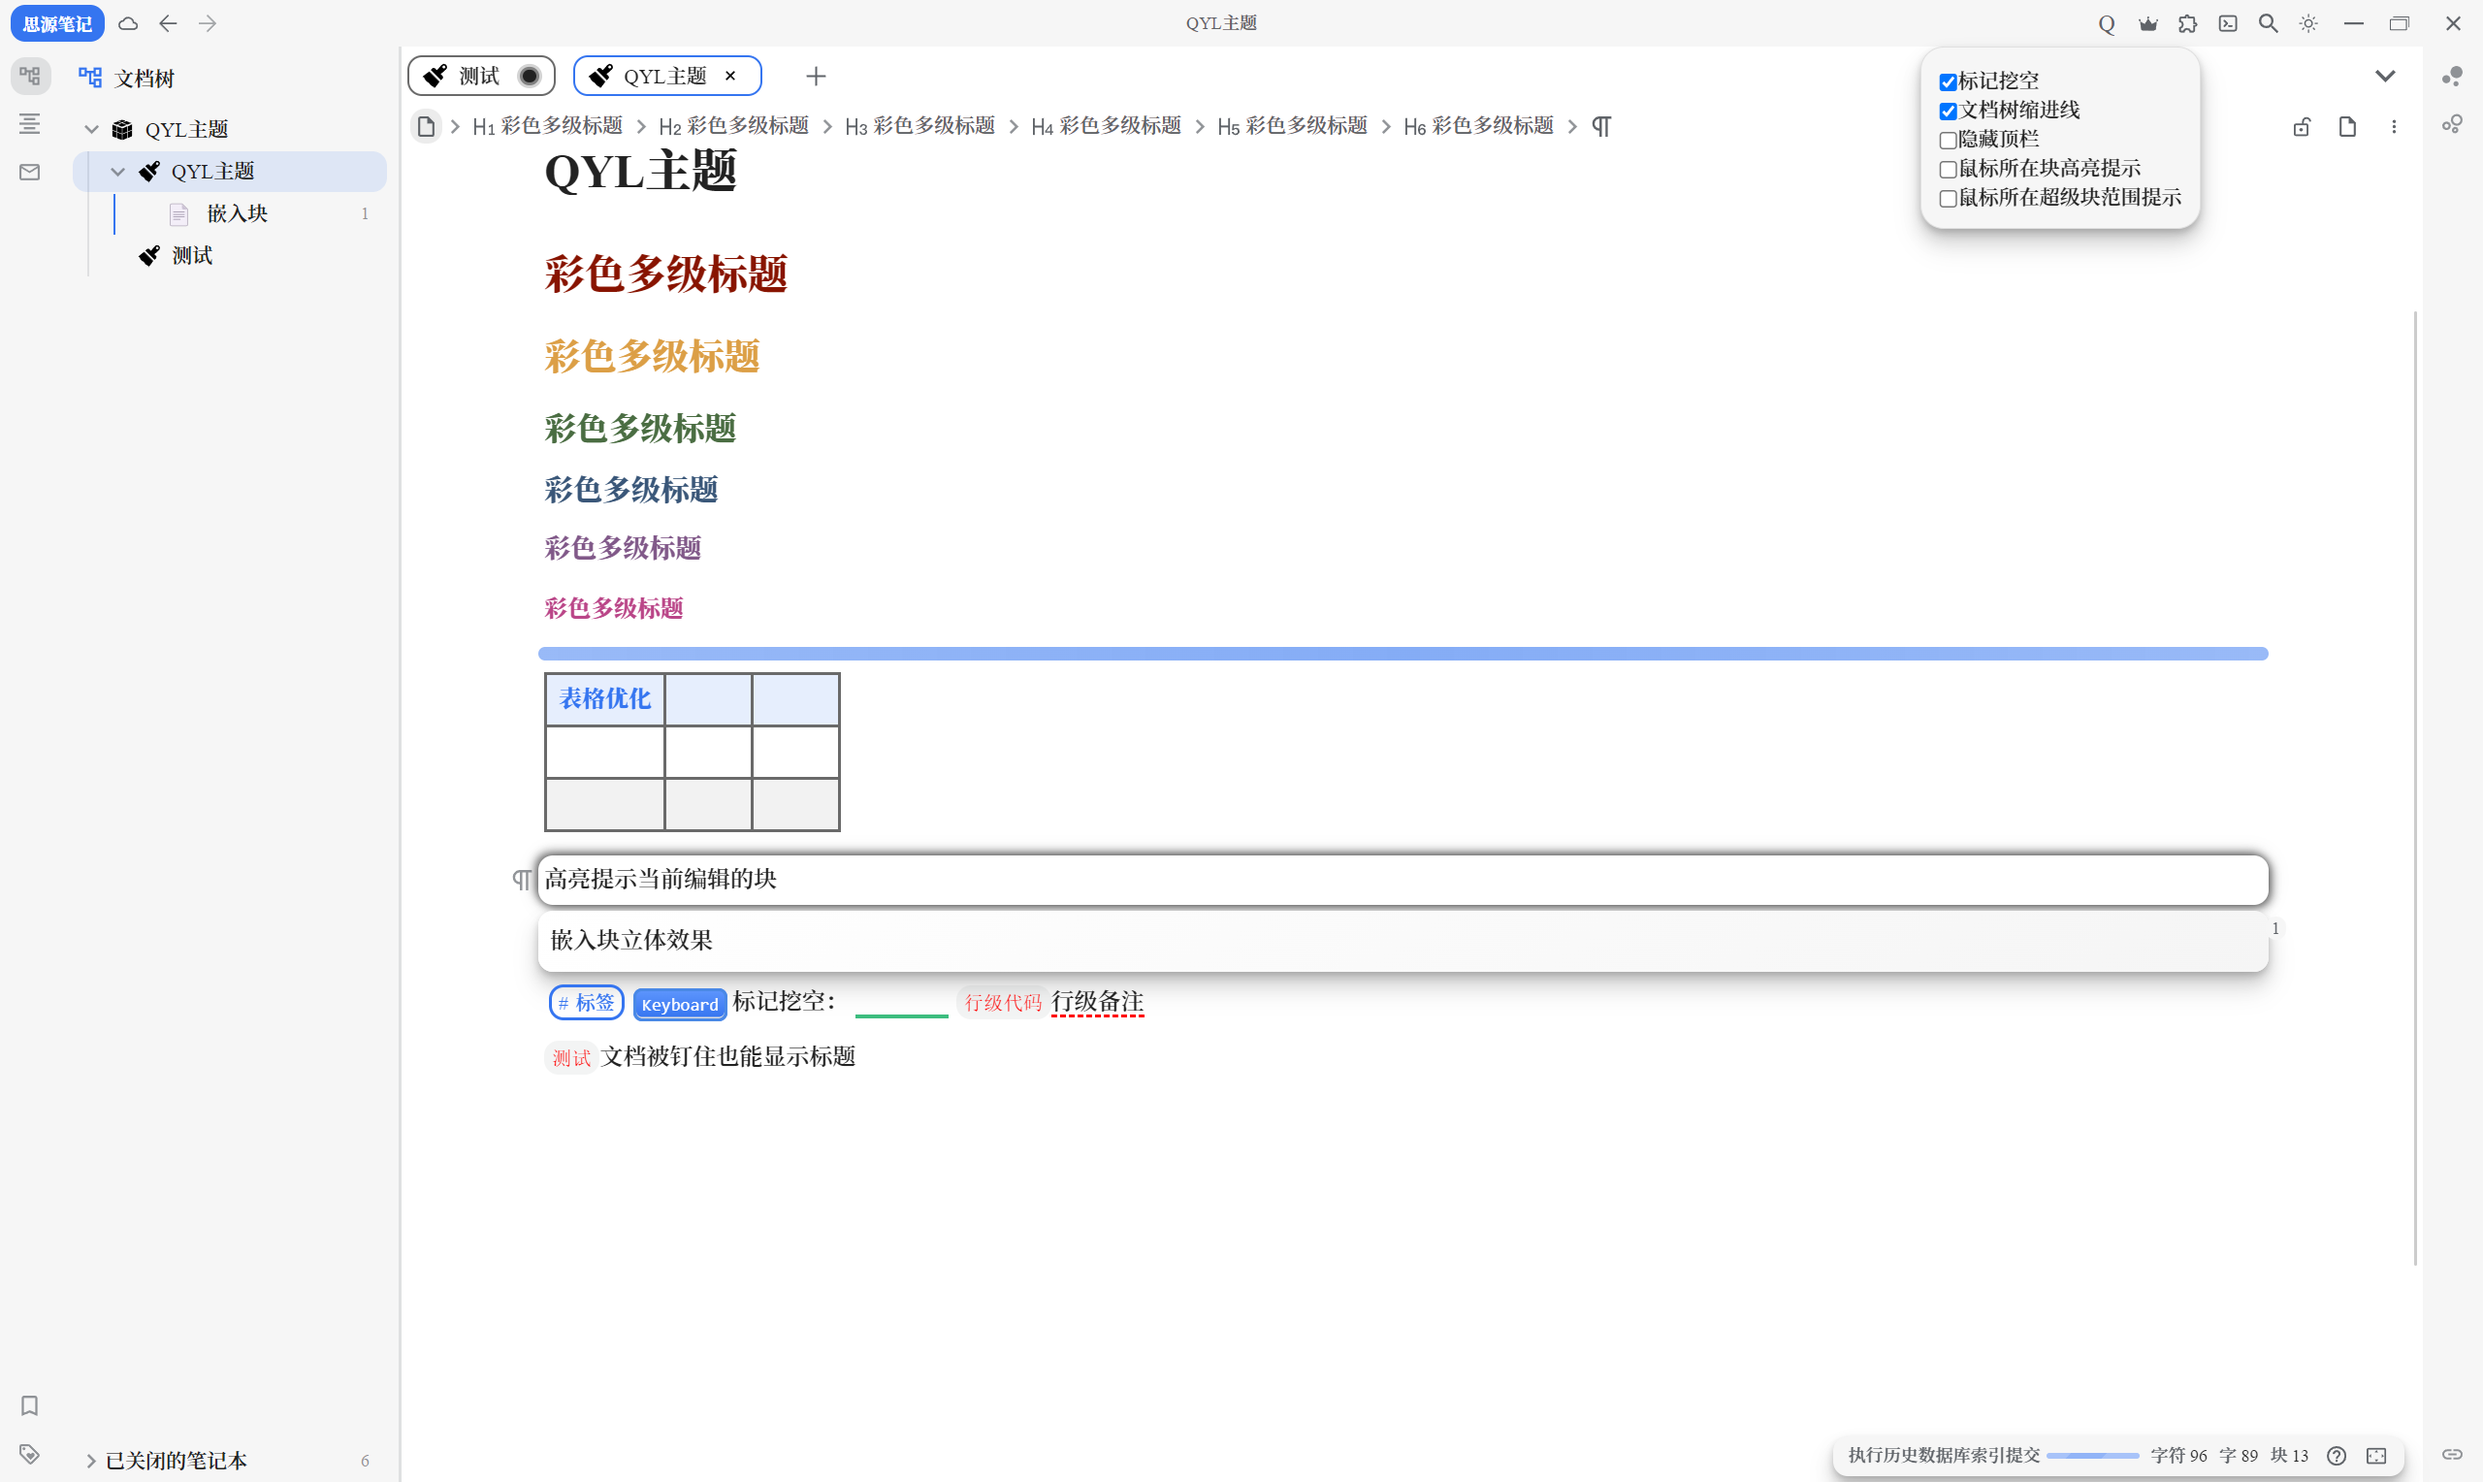
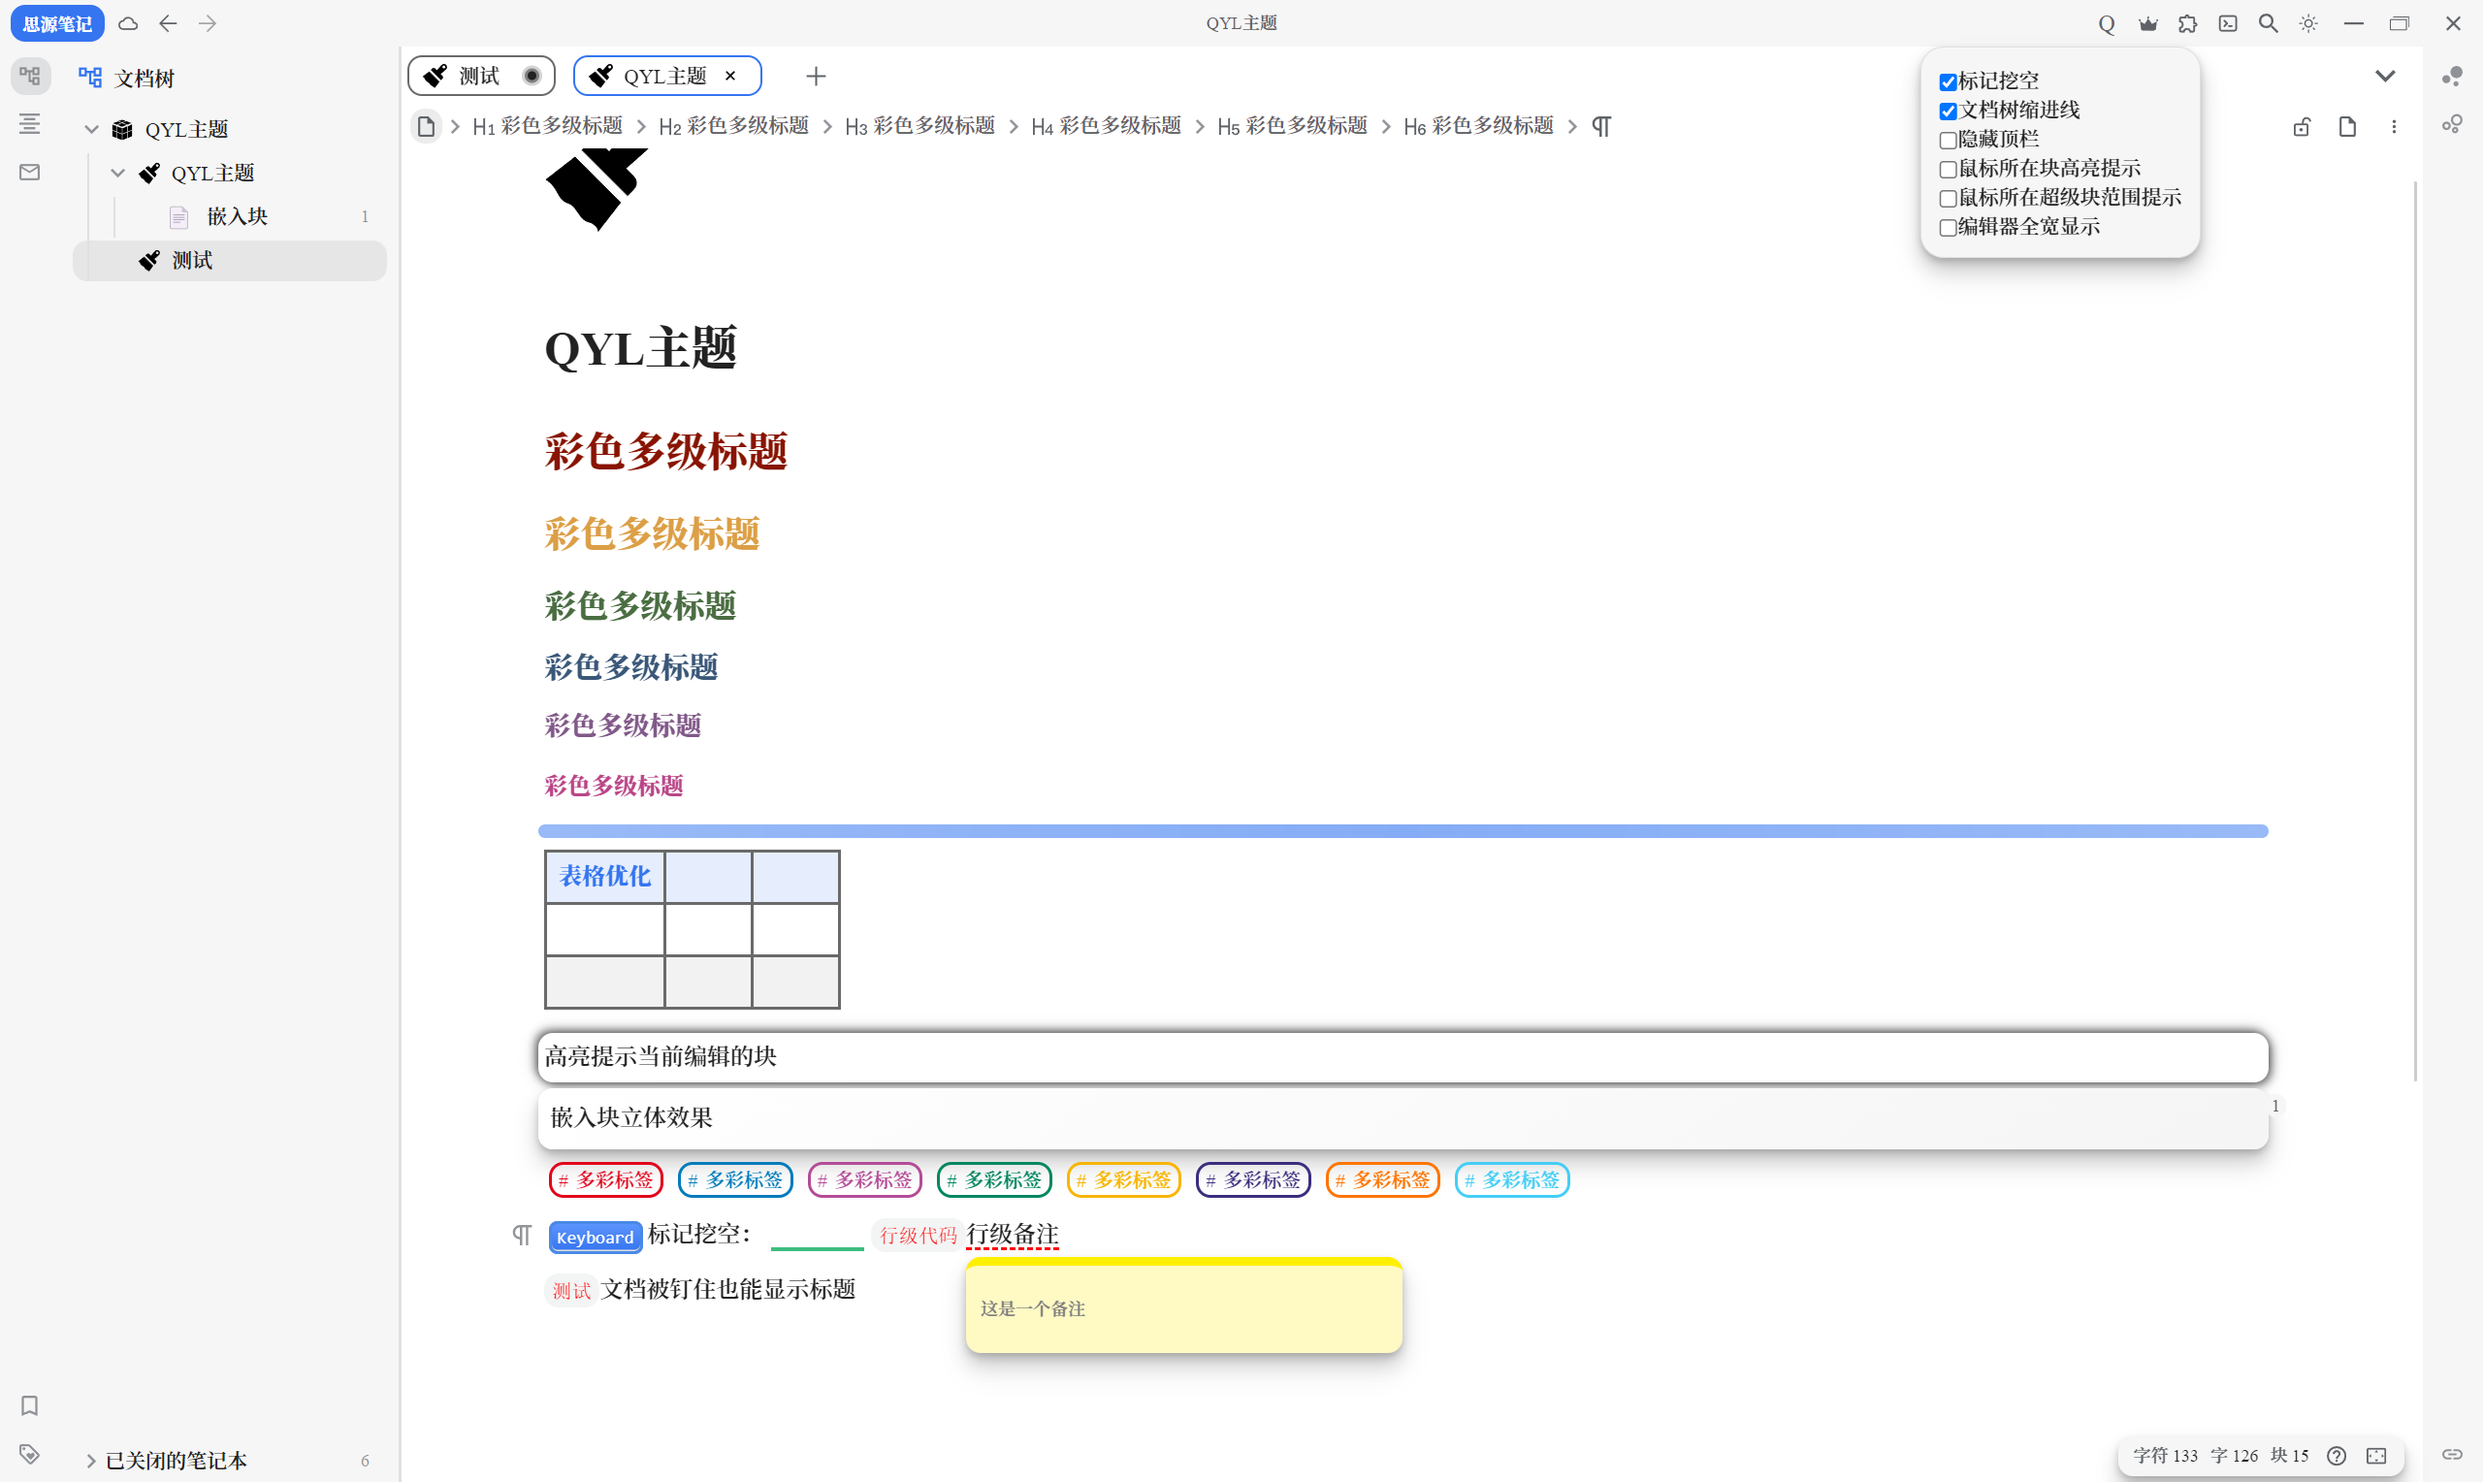
Add files via upload

diff --git a/theme.css b/theme.css
@@ -43,6 +43,7 @@
     --b3-point-shadow: 0 2px 4px rgba(0, 0, 0, 0.1), 0 4px 6px rgba(0, 0, 0, 0.1), 0 8px 12px rgba(0, 0, 0, 0.1), 0 12px 18px rgba(0, 0, 0, 0.1);
     --b3-dialog-shadow: 0 2px 4px rgba(0, 0, 0, 0.1), 0 4px 6px rgba(0, 0, 0, 0.1), 0 8px 12px rgba(0, 0, 0, 0.1), 0 12px 18px rgba(0, 0, 0, 0.1);
     --b3-button-shadow: 0 2px 4px rgba(0, 0, 0, 0.1), 0 4px 6px rgba(0, 0, 0, 0.1), 0 8px 12px rgba(0, 0, 0, 0.1), 0 12px 18px rgba(0, 0, 0, 0.1);
+    --b3-light-shadow: 0 4px 6px rgba(0, 0, 0, 0.1);
 }
 
 /* 设置全局字体 */
@@ -282,22 +283,141 @@ li.item.item--readonly {
 }
 
 /* 标签 */
-.protyle-wysiwyg [data-node-id] span[data-type~=tag] {
+.protyle-wysiwyg [data-node-id] span[data-type~=tag]:nth-of-type(8n+1) {
     border-radius: var(--b3-border-radius);
-    border: 2px solid var(--b3-theme-primary);
+    border: 2px solid #e2041b;
     padding: 3px 5px;
-    color: var(--b3-theme-primary);
+    color: #e2041b;
     margin-left: 3px;
     margin-right: 3px;
     font-size: smaller;
 }
-.protyle-wysiwyg [data-node-id] span[data-type~=tag]::before {
+.protyle-wysiwyg [data-node-id] span[data-type~=tag]:nth-of-type(8n+1)::before {
     content: "#";
-    color: var(--b3-theme-primary);
+    color: #e2041b;
     margin-right: 5px;
 }
-.protyle-wysiwyg [data-node-id] span[data-type~=tag]:hover {
-    background-color: var(--b3-theme-primary-lightest);
+.protyle-wysiwyg [data-node-id] span[data-type~=tag]:nth-of-type(8n+1):hover {
+    background-color: rgba(226, 4, 26, 0.1);
+}
+.protyle-wysiwyg [data-node-id] span[data-type~=tag]:nth-of-type(8n+2) {
+    border-radius: var(--b3-border-radius);
+    border: 2px solid #007bbb;
+    padding: 3px 5px;
+    color: #007bbb;
+    margin-left: 3px;
+    margin-right: 3px;
+    font-size: smaller;
+}
+.protyle-wysiwyg [data-node-id] span[data-type~=tag]:nth-of-type(8n+2)::before {
+    content: "#";
+    color: #007bbb;
+    margin-right: 5px;
+}
+.protyle-wysiwyg [data-node-id] span[data-type~=tag]:nth-of-type(8n+2):hover {
+    background-color: rgba(0, 121, 187, 0.1);
+}
+.protyle-wysiwyg [data-node-id] span[data-type~=tag]:nth-of-type(8n+3) {
+    border-radius: var(--b3-border-radius);
+    border: 2px solid #b44c97;
+    padding: 3px 5px;
+    color: #b44c97;
+    margin-left: 3px;
+    margin-right: 3px;
+    font-size: smaller;
+}
+.protyle-wysiwyg [data-node-id] span[data-type~=tag]:nth-of-type(8n+3)::before {
+    content: "#";
+    color: #b44c97;
+    margin-right: 5px;
+}
+.protyle-wysiwyg [data-node-id] span[data-type~=tag]:nth-of-type(8n+3):hover {
+    background-color: rgba(180, 76, 151, 0.1);
+}
+.protyle-wysiwyg [data-node-id] span[data-type~=tag]:nth-of-type(8n+4) {
+    border-radius: var(--b3-border-radius);
+    border: 2px solid #028760;
+    padding: 3px 5px;
+    color: #028760;
+    margin-left: 3px;
+    margin-right: 3px;
+    font-size: smaller;
+}
+.protyle-wysiwyg [data-node-id] span[data-type~=tag]:nth-of-type(8n+4)::before {
+    content: "#";
+    color: #028760;
+    margin-right: 5px;
+}
+.protyle-wysiwyg [data-node-id] span[data-type~=tag]:nth-of-type(8n+4):hover {
+    background-color: rgba(2, 135, 95, 0.1);
+}
+.protyle-wysiwyg [data-node-id] span[data-type~=tag]:nth-of-type(8n+5) {
+    border-radius: var(--b3-border-radius);
+    border: 2px solid #f8b500;
+    padding: 3px 5px;
+    color: #f8b500;
+    margin-left: 3px;
+    margin-right: 3px;
+    font-size: smaller;
+}
+.protyle-wysiwyg [data-node-id] span[data-type~=tag]:nth-of-type(8n+5)::before {
+    content: "#";
+    color: #f8b500;
+    margin-right: 5px;
+}
+.protyle-wysiwyg [data-node-id] span[data-type~=tag]:nth-of-type(8n+5):hover {
+    background-color: rgba(248, 182, 0, 0.1);
+}
+.protyle-wysiwyg [data-node-id] span[data-type~=tag]:nth-of-type(8n+6) {
+    border-radius: var(--b3-border-radius);
+    border: 2px solid #3b2e7e;
+    padding: 3px 5px;
+    color: #3b2e7e;
+    margin-left: 3px;
+    margin-right: 3px;
+    font-size: smaller;
+}
+.protyle-wysiwyg [data-node-id] span[data-type~=tag]:nth-of-type(8n+6)::before {
+    content: "#";
+    color: #3b2e7e;
+    margin-right: 5px;
+}
+.protyle-wysiwyg [data-node-id] span[data-type~=tag]:nth-of-type(8n+6):hover {
+    background-color: rgba(59, 46, 126, 0.1);
+}
+.protyle-wysiwyg [data-node-id] span[data-type~=tag]:nth-of-type(8n+7) {
+    border-radius: var(--b3-border-radius);
+    border: 2px solid #ff7500;
+    padding: 3px 5px;
+    color: #ff7500;
+    margin-left: 3px;
+    margin-right: 3px;
+    font-size: smaller;
+}
+.protyle-wysiwyg [data-node-id] span[data-type~=tag]:nth-of-type(8n+7)::before {
+    content: "#";
+    color: #ff7500;
+    margin-right: 5px;
+}
+.protyle-wysiwyg [data-node-id] span[data-type~=tag]:nth-of-type(8n+7):hover {
+    background-color: rgba(255, 119, 0, 0.1);
+}
+.protyle-wysiwyg [data-node-id] span[data-type~=tag]:nth-of-type(8n) {
+    border-radius: var(--b3-border-radius);
+    border: 2px solid #44cef6;
+    padding: 3px 5px;
+    color: #44cef6;
+    margin-left: 3px;
+    margin-right: 3px;
+    font-size: smaller;
+}
+.protyle-wysiwyg [data-node-id] span[data-type~=tag]:nth-of-type(8n)::before {
+    content: "#";
+    color: #44cef6;
+    margin-right: 5px;
+}
+.protyle-wysiwyg [data-node-id] span[data-type~=tag]:nth-of-type(8n):hover {
+    background-color: rgba(68, 207, 246, 0.1);
 }
 
 /* 圆形关闭键 */
@@ -321,15 +441,16 @@ li.item.item--readonly {
 }
 .b3-list--background .b3-list-item, li.b3-list-item  {
     border-radius: var(--b3-border-radius);
+    margin-bottom: 2px;
 }
 .b3-menu__item--current:not(.b3-menu__item--readonly) {
-    background-color: var(--b3-theme-primary-lightest);
+    background-color: rgb(223, 224, 225, 0.7);
 }
 .b3-menu__item {
     margin: 0px;
 }
 .fn__flex-1.fn__flex-column.file-tree.sy__file .b3-list-item:hover, .fn__flex-1.fn__flex-column.file-tree.sy__file .b3-list--background .b3-list-item:hover:not(.b3-list-item--focus), .fn__flex-1.fn__flex-column.file-tree.sy__file .b3-list--background .b3-list-item--focus:not(.dragover):not(.dragover__top):not(.dragover__bottom) {
-    background-color: var(--b3-theme-primary-lightest);
+    background-color: rgb(223, 224, 225, 0.7);
 }
 
 /* 任务列表 */

diff --git a/theme.js b/theme.js
@@ -67,6 +67,7 @@ let isChecked2 = false;
 let isChecked3 = false;
 let isChecked4 = false;
 let isChecked5 = false;
+let isChecked6 = false;
 function createSettingsWindow() {
     // 检查是否已经存在设置窗口
     if (document.getElementById('settings-window')) return;
@@ -140,6 +141,17 @@ function createSettingsWindow() {
     label5.style.fontSize = '14px';
     label5.style.userSelect= 'none';
 
+    const checkbox6 = document.createElement('input');
+    checkbox6.type = 'checkbox';
+    checkbox6.id = 'fullwidthpage-checkbox';
+    checkbox6.checked = isChecked6;
+
+    const label6 = document.createElement('label');
+    label6.htmlFor = 'fullwidthpage-checkbox';
+    label6.textContent = '编辑器全宽显示';
+    label6.style.fontSize = '14px';
+    label6.style.userSelect= 'none';
+
     // 将复选框和标签组合
     const QYLfunctionpair1 = document.createElement('div');
     QYLfunctionpair1.className = 'checkbox-label-pair';
@@ -166,12 +178,18 @@ function createSettingsWindow() {
     QYLfunctionpair5.appendChild(checkbox5);
     QYLfunctionpair5.appendChild(label5);
     
+    const QYLfunctionpair6 = document.createElement('div');
+    QYLfunctionpair6.className = 'checkbox-label-pair';
+    QYLfunctionpair6.appendChild(checkbox6);
+    QYLfunctionpair6.appendChild(label6);
+
     // 将复选框和标签添加到设置窗口
     settingsWindow.appendChild(QYLfunctionpair1);
     settingsWindow.appendChild(QYLfunctionpair2);
     settingsWindow.appendChild(QYLfunctionpair3);
     settingsWindow.appendChild(QYLfunctionpair4);
     settingsWindow.appendChild(QYLfunctionpair5);
+    settingsWindow.appendChild(QYLfunctionpair6);
 
     // 将设置窗口添加到body
     document.body.appendChild(settingsWindow);
@@ -223,6 +241,16 @@ function createSettingsWindow() {
             enablesbremind();
         } else {
             disablesbremind();
+        }
+    });
+
+    // 全宽显示开关
+    checkbox6.addEventListener('change', function() {
+        isChecked6 = this.checked;
+        if (this.checked) {
+            enablefullwidth();
+        } else {
+            disablefullwidth();
         }
     });
 
@@ -311,9 +339,10 @@ function enableIndentStyle() {
     }
     styleSheet.innerText = `
         .file-tree>.fn__flex-1 {
-        --indent-color-inactive: rgb(from var(--b3-theme-on-background) r g b / .15);
-        --indent-color-active: rgb(from var(--b3-theme-on-background) r g b / .3);
-        --indent-color: #0000 }
+            --indent-color-inactive: rgb(from var(--b3-theme-on-background) r g b / .15);
+            --indent-color-active: rgb(from var(--b3-theme-on-background) r g b / .3);
+            --indent-color: #0000
+        }
         .file-tree>.fn__flex-1>ul>ul { background-image: linear-gradient(90deg, rgba(0, 0, 0, 0) 0 18px, var(--indent-color) 18px 19.5px, rgba(0, 0, 0, 0) 19.5px 100%) }
         .file-tree>.fn__flex-1>ul>ul>ul { background-image: linear-gradient(90deg, rgba(0, 0, 0, 0) 0 36px, var(--indent-color) 36px 37.5px, rgba(0, 0, 0, 0) 37.5px 100%) }
         .file-tree>.fn__flex-1>ul>ul>ul>ul { background-image: linear-gradient(90deg, rgba(0, 0, 0, 0) 0 54px, var(--indent-color) 54px 55.5px, rgba(0, 0, 0, 0) 55.5px 100%) }
@@ -380,8 +409,8 @@ function enablehoverblockremind() {
     }
     styleSheet.innerText = `
         .p:hover {
-        box-shadow: 2px 2px 6px rgba(0, 0, 0, 0.15), -2px -2px 6px rgba(0, 0, 0, 0.15), 0 0 12px rgba(0, 0, 0, 0.1) !important;
-        transition: background-color 0.5s ease-out, box-shadow 0.5s ease-out !important;
+            box-shadow: 2px 2px 6px rgba(0, 0, 0, 0.15), -2px -2px 6px rgba(0, 0, 0, 0.15), 0 0 12px rgba(0, 0, 0, 0.1) !important;
+            transition: background-color 0.5s ease-out, box-shadow 0.5s ease-out !important;
         }
     `;
 }
@@ -404,8 +433,8 @@ function enablesbremind() {
     }
     styleSheet.innerText = `
         .sb:hover {
-        box-shadow: 2px 2px 6px rgba(0, 0, 0, 0.15), -2px -2px 6px rgba(0, 0, 0, 0.15), 0 0 12px rgba(0, 0, 0, 0.1) !important;
-        transition: background-color 0.5s ease-out, box-shadow 0.5s ease-out !important;
+            box-shadow: 2px 2px 6px rgba(0, 0, 0, 0.15), -2px -2px 6px rgba(0, 0, 0, 0.15), 0 0 12px rgba(0, 0, 0, 0.1) !important;
+            transition: background-color 0.5s ease-out, box-shadow 0.5s ease-out !important;
         }
     `;
 }
@@ -413,6 +442,38 @@ function enablesbremind() {
 // 关闭超级块范围提示功能
 function disablesbremind() {
     const styleSheet = document.getElementById("sbremind-style");
+    if (styleSheet) {
+        styleSheet.innerText = '';
+    }
+}
+
+// 开启全宽显示功能
+function enablefullwidth() {
+    let styleSheet = document.getElementById("fullwidth-style");
+    if (!styleSheet) {
+        styleSheet = document.createElement("style");
+        styleSheet.id = "fullwidth-style";
+        document.head.appendChild(styleSheet);
+    }
+    styleSheet.innerText = `
+        .protyle-wysiwyg {
+            padding-left: 20px !important;
+            padding-right: 20px !important;
+        }
+        .protyle-title.protyle-wysiwyg--attr {
+            margin-left: 20px !important;
+            margin-right:20px !important;
+        }
+        .protyle-background__icon img, .protyle-background__icon svg, .b3-chips__doctag .b3-chip {
+            position: relative;
+            left: -76px;
+        }
+    `;
+}
+
+// 关闭全宽显示功能
+function disablefullwidth() {
+    const styleSheet = document.getElementById("fullwidth-style");
     if (styleSheet) {
         styleSheet.innerText = '';
     }

diff --git a/README_zh_CN.md b/README_zh_CN.md
@@ -8,11 +8,16 @@
 * 表格、标签样式优化
 * 高亮提示编辑块、悬浮块、超级块
 * 可开启标记挖空
+* 可开启编辑器全宽显示
 * 可开启文档树缩进线，参考了Asri主题
 * 斜杠`/`菜单横铺，参考了<https://ld246.com/article/1724305128590>
 * 底部状态栏浮动到右侧，部分内容参考了<https://ld246.com/article/1724305128590>
 * 页签栏样式优化，部分内容参考了<https://ld246.com/article/1724305128590>
 * 其他样式改动......
+
+## v1.1.7
+* 增加功能：编辑器全宽显示，可通过顶栏`Q`按钮开启（配合思源自带的Alt+Y即可开启沉浸式编辑）
+* 同一个块内的不同标签可以显示不同颜色
 
 ## v1.1.6
 * 更改页签钉住样式的实现方式，保证钉住前后的一致性
